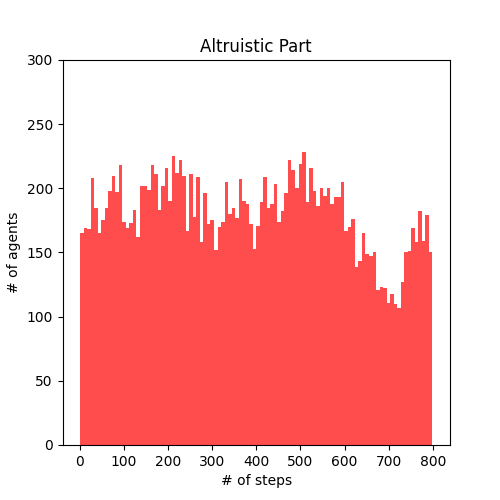
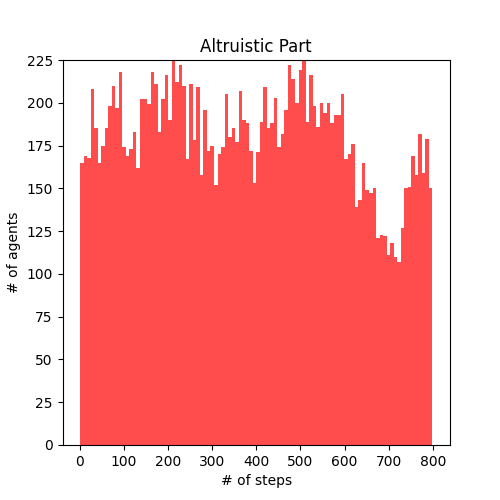
hopefully last commit

diff --git a/plots.py b/plots.py
@@ -56,7 +56,7 @@ comlist = [key for key, val in com_dict.items() for _ in range(val)]
 indlist = [key for key, val in ind_dict.items() for _ in range(val)]
 # plt.hist(indlist, bins=33, alpha = 0.333,color='r')
 
-LIM = 300
+LIM = 225
 plt.figure(0,figsize=(5,5))
 plt.ylim((0, LIM))
 plt.hist(altlist, 100, histtype='bar', color='r', alpha=0.7)
